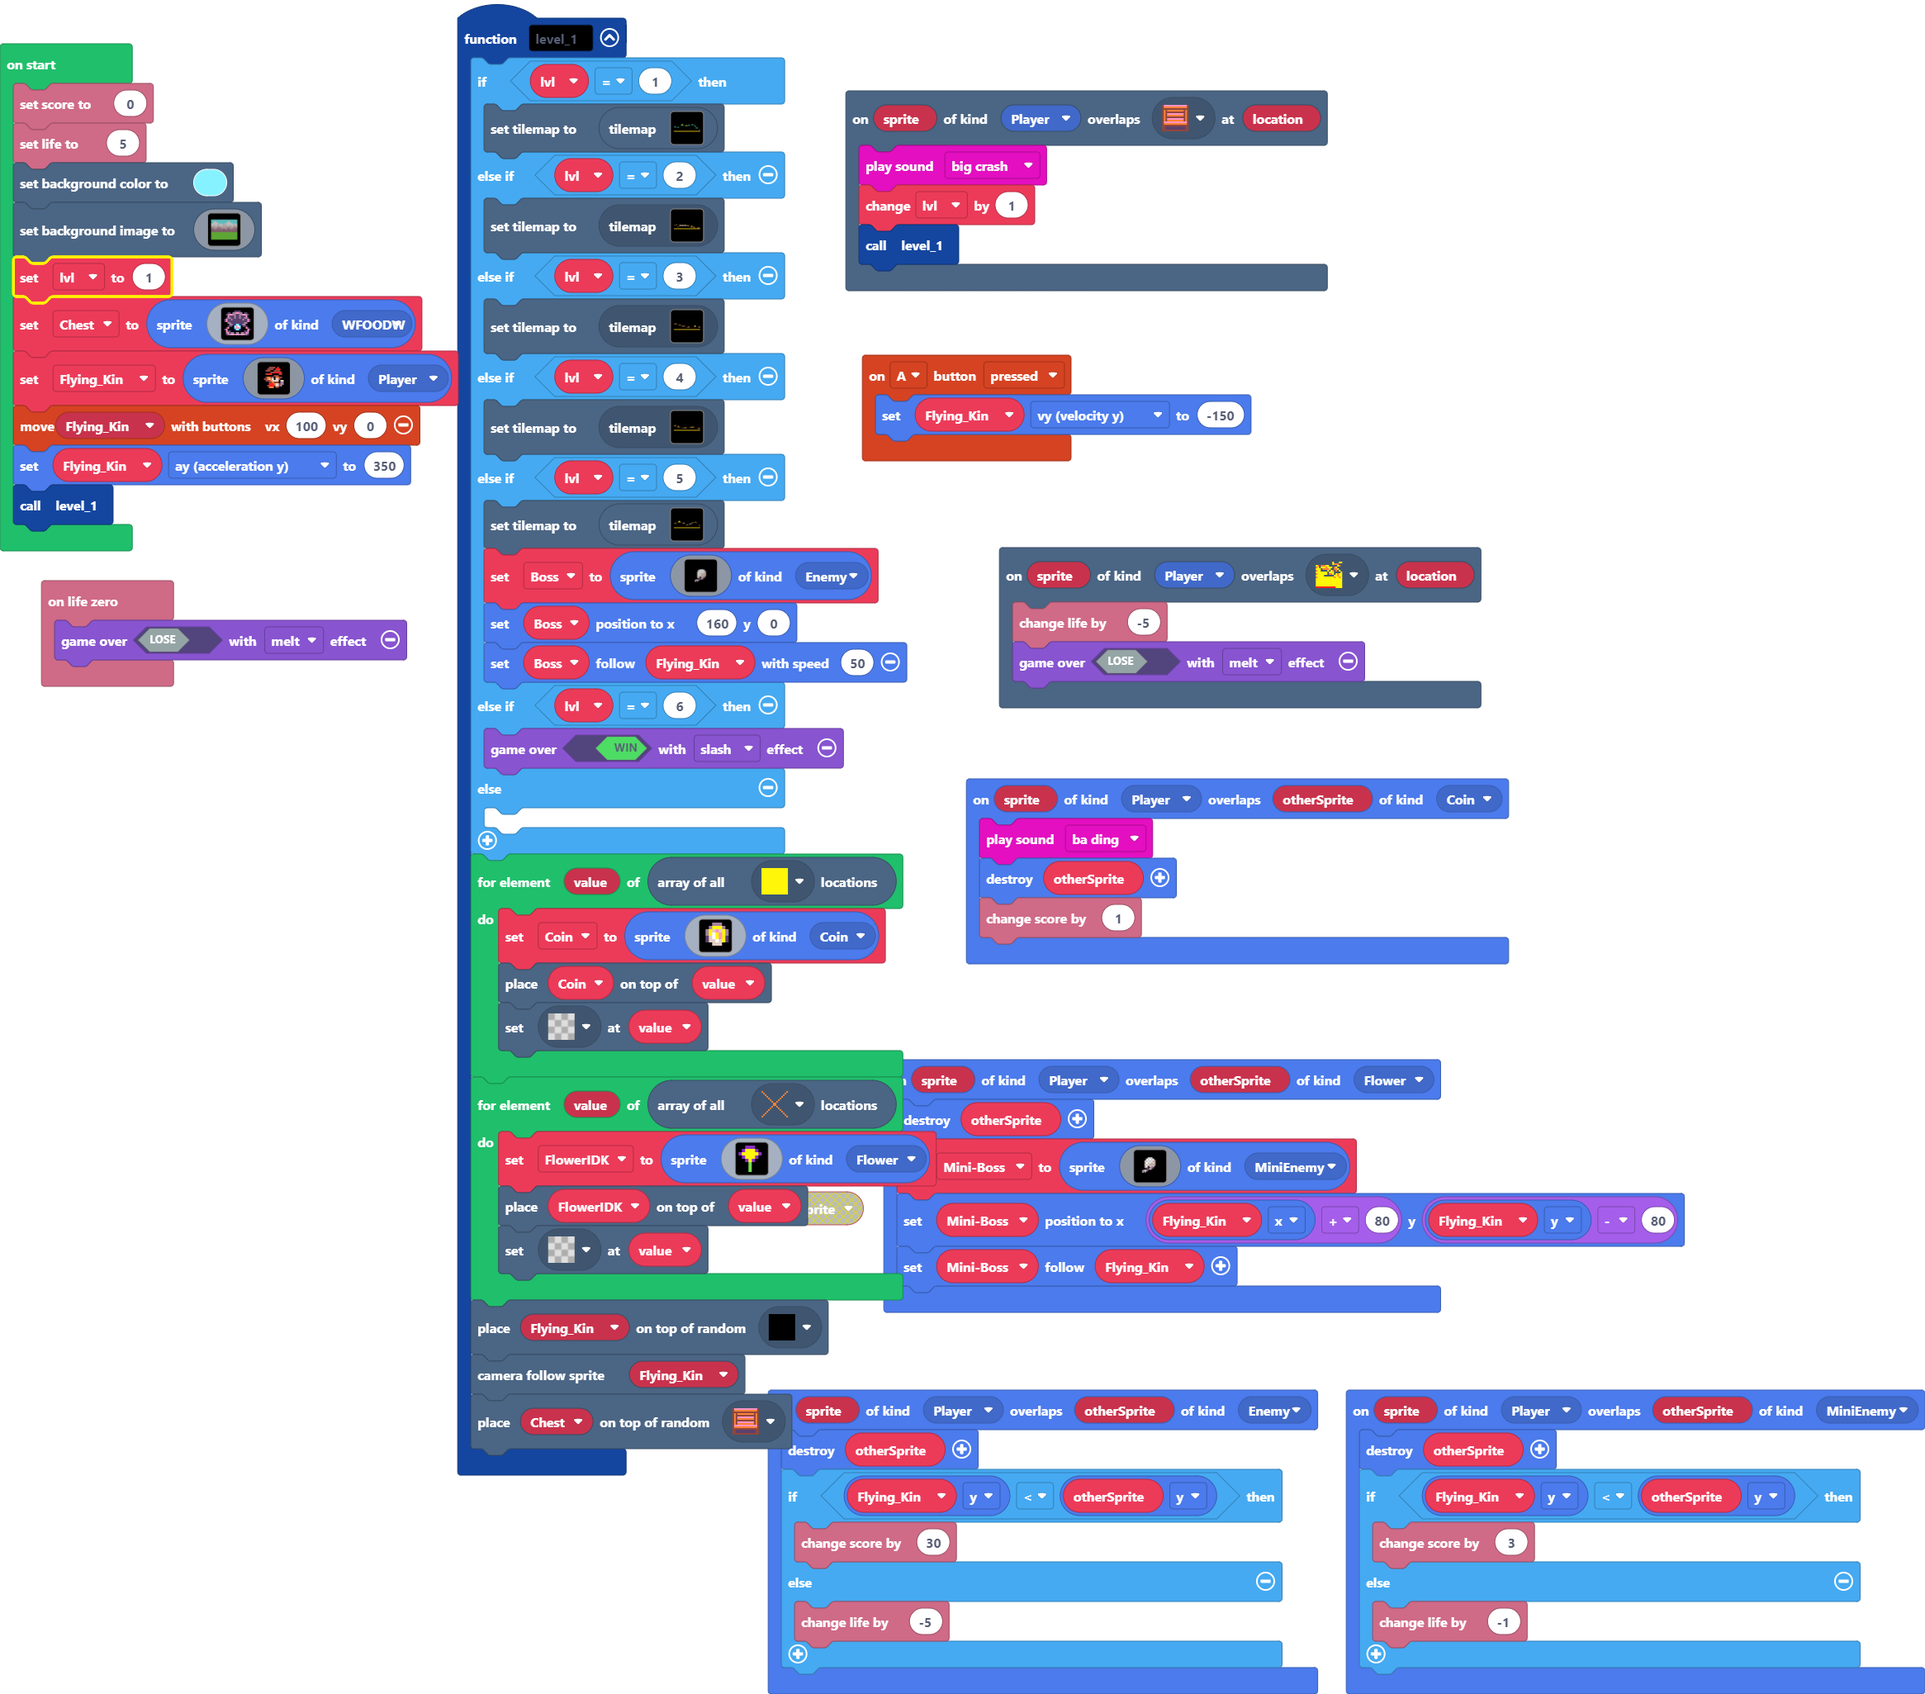
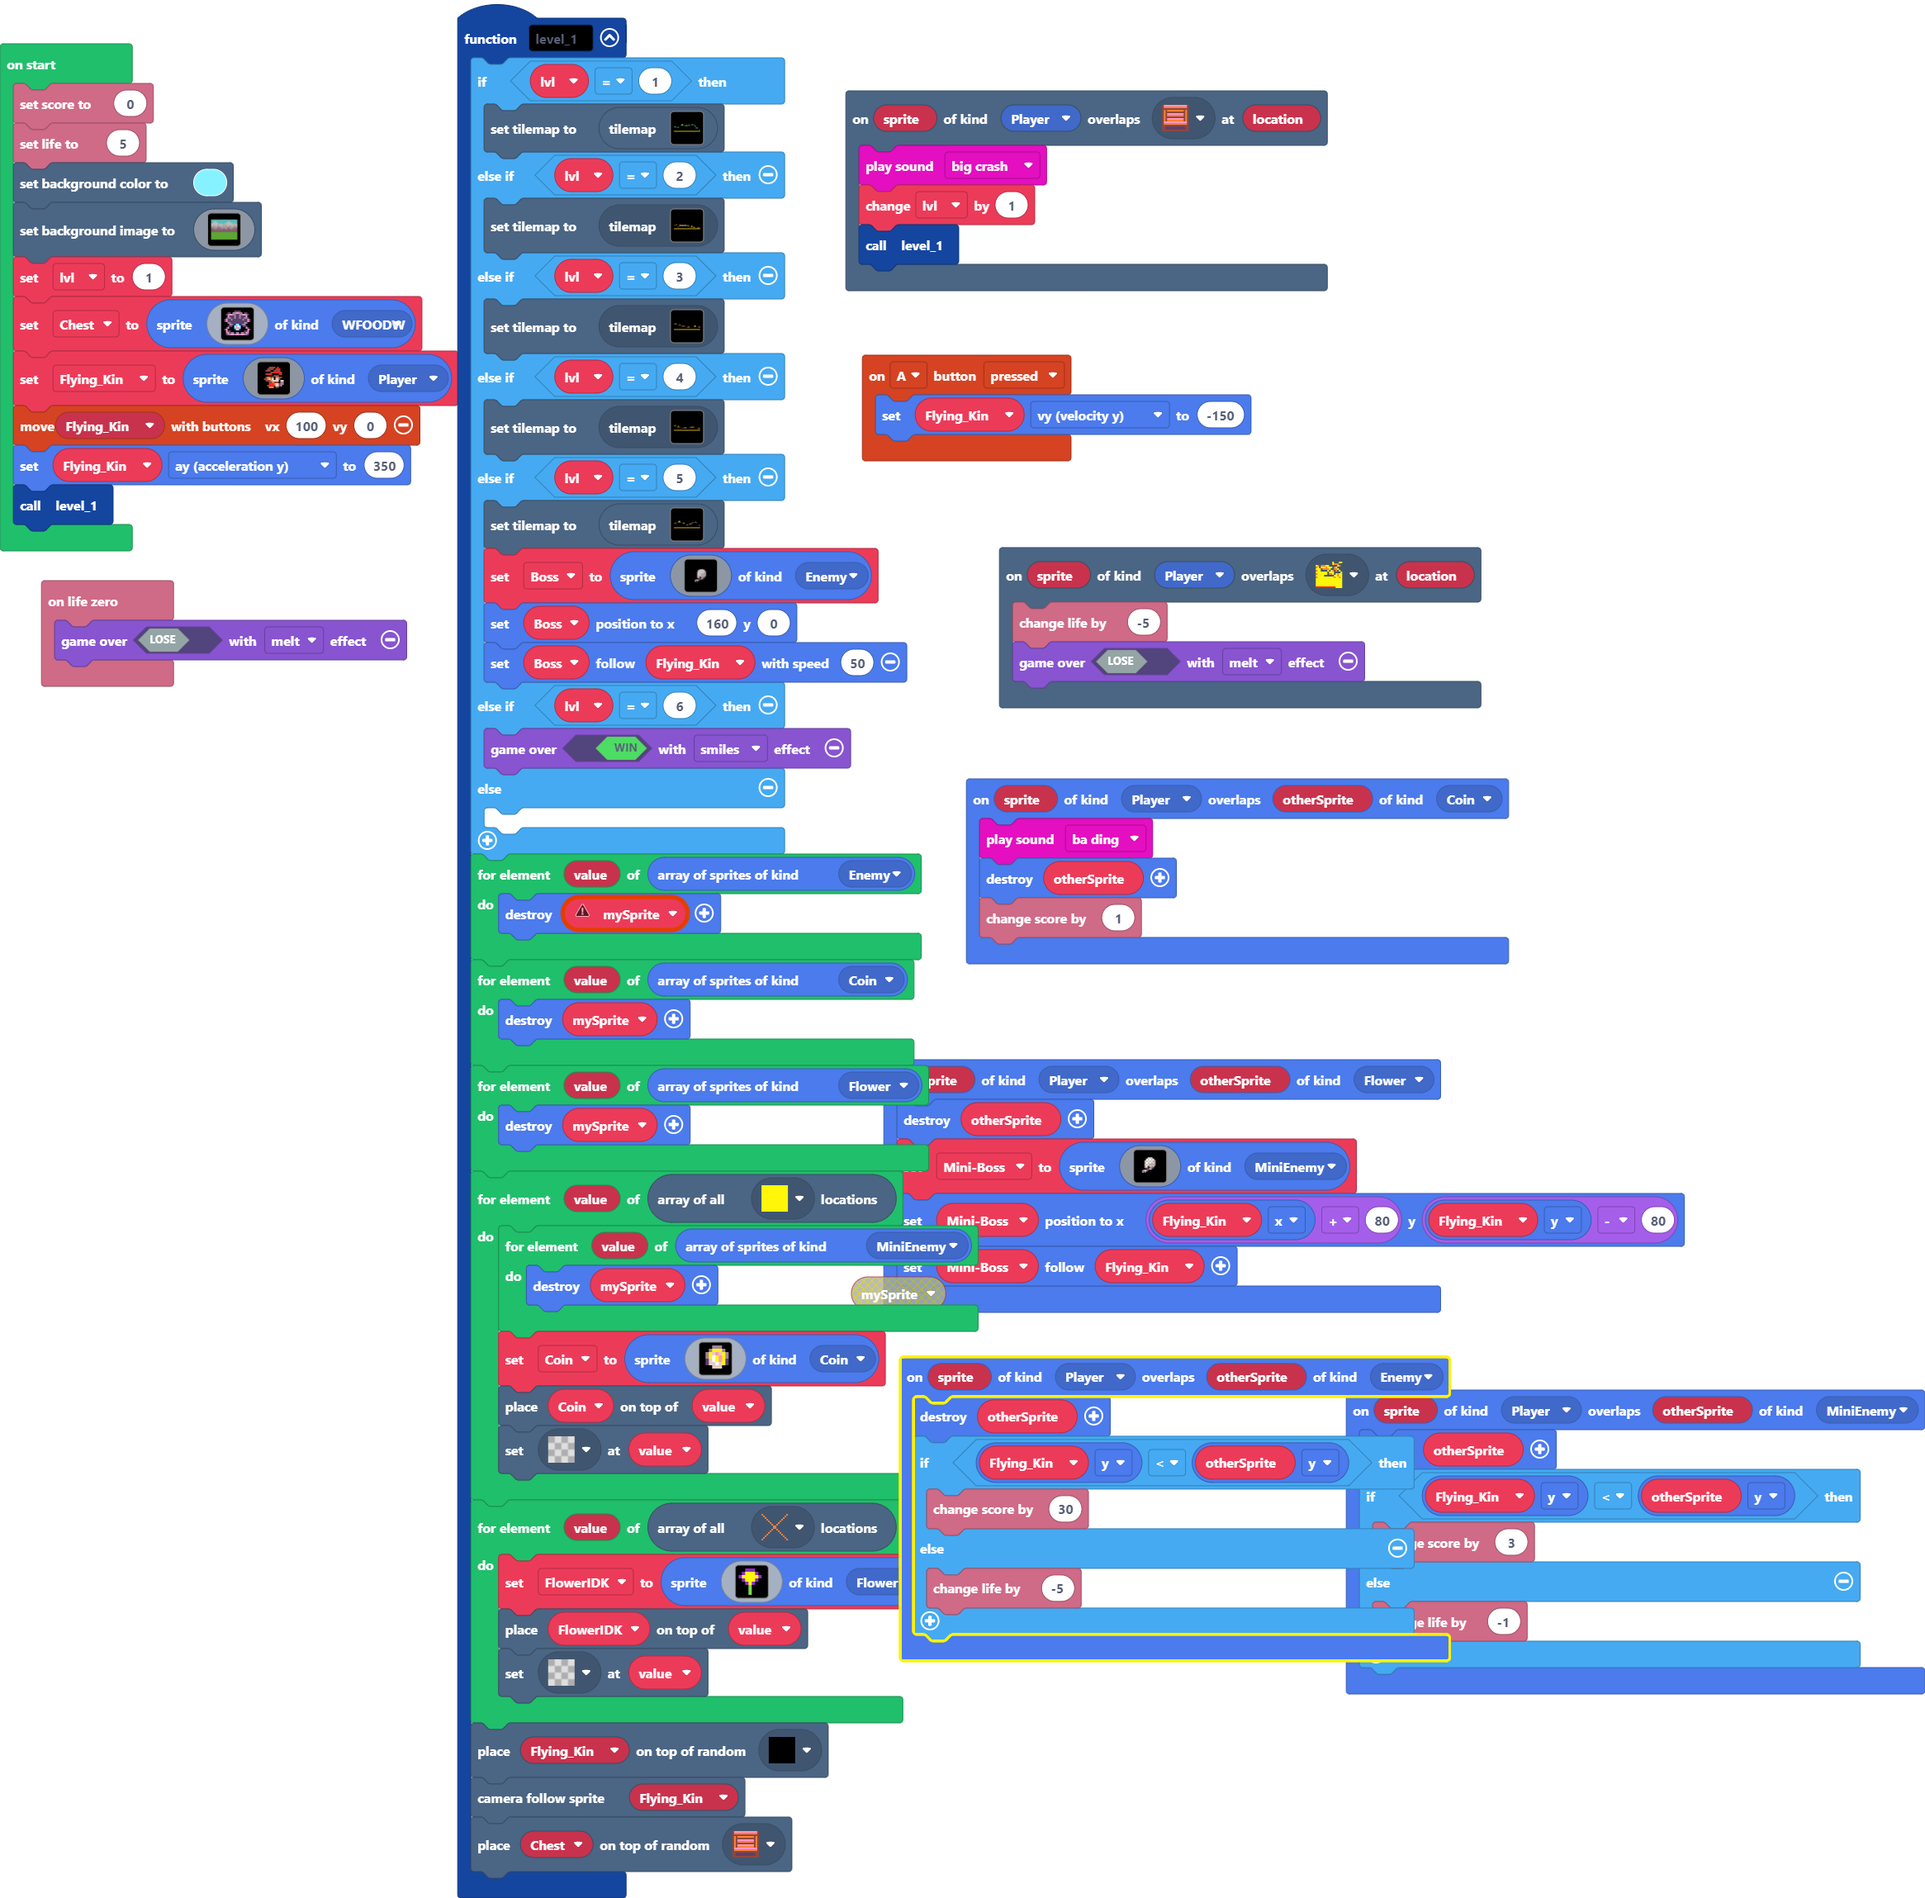
Bug Fixes

diff --git a/main.ts b/main.ts
@@ -65,6 +65,7 @@ info.onLifeZero(function () {
     game.over(false, effects.melt)
 })
 function level_1 () {
+    let mySprite: Sprite = null
     if (lvl == 1) {
         tiles.setCurrentTilemap(tilemap`level1`)
     } else if (lvl == 2) {
@@ -130,11 +131,23 @@ function level_1 () {
         Boss.setPosition(160, 0)
         Boss.follow(Flying_Kin, 50)
     } else if (lvl == 6) {
-        game.over(true, effects.slash)
+        game.over(true, effects.smiles)
     } else {
     	
     }
+    for (let value of sprites.allOfKind(SpriteKind.Enemy)) {
+        mySprite.destroy()
+    }
+    for (let value of sprites.allOfKind(SpriteKind.Coin)) {
+        mySprite.destroy()
+    }
+    for (let value of sprites.allOfKind(SpriteKind.Flower)) {
+        mySprite.destroy()
+    }
     for (let value of tiles.getTilesByType(assets.tile`myTile5`)) {
+        for (let value of sprites.allOfKind(SpriteKind.MiniEnemy)) {
+            mySprite.destroy()
+        }
         Coin = sprites.create(img`
             . . . b b b . . 
             . . b 5 5 5 b . 
